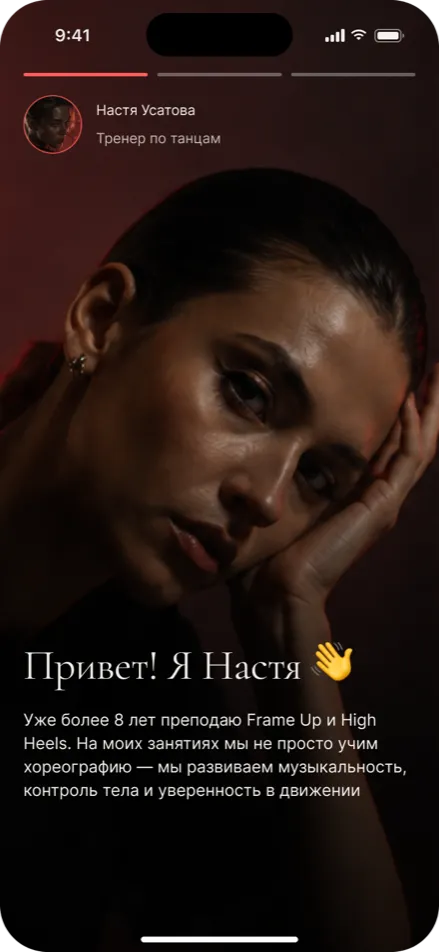
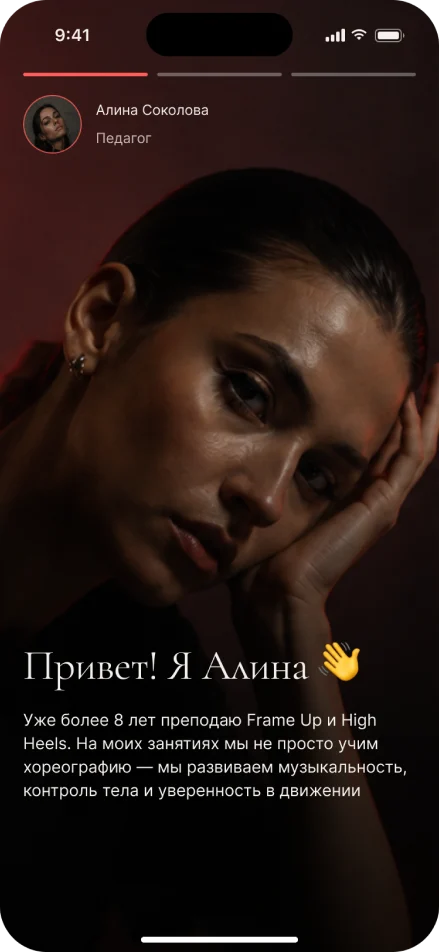
Looma: без «главной метрики» и A/B-теста — гипотезы с «Как проверю» на 5 людях; «Истории» педагога Алины, запрос на связь Насте

diff --git a/looma.html b/looma.html
@@ -4,7 +4,7 @@
 <meta charset="utf-8">
 <meta name="viewport" content="width=device-width,initial-scale=1,viewport-fit=cover">
 <title>Looma — продуктовый кейс Екатерины Богдановой</title>
-<meta name="description" content="Looma — приложение, где танцоры находят занятия, события и друг друга. Концепт-проект, соло, 2 месяца: исследование, гипотезы и метрики, скоуп MVP, метафора красной нити, онбординг, юзабилити-тест с 5 педагогами">
+<meta name="description" content="Looma — приложение, где танцоры находят занятия, события и друг друга. Концепт-проект, соло, 2 месяца: исследование, гипотезы, скоуп MVP, метафора красной нити, онбординг, юзабилити-тест с 5 педагогами">
 <meta name="author" content="Екатерина Богданова">
 <link rel="canonical" href="https://ekateribogdana.github.io/looma.html">
 <meta property="og:type" content="article">
@@ -19,7 +19,7 @@
 <link rel="preconnect" href="https://fonts.gstatic.com" crossorigin>
 <link href="https://fonts.googleapis.com/css2?family=Cormorant+Garamond:ital,wght@0,400;0,500;0,600;1,400;1,500&family=Cormorant+Infant:wght@300;400&family=Inter:wght@400;500;600&family=PT+Mono&display=swap" rel="stylesheet">
 <script type="application/ld+json">
-{"@context":"https://schema.org","@type":"CreativeWork","name":"Looma — приложение для танцевального сообщества","dateCreated":"2026","creator":{"@type":"Person","@id":"https://ekateribogdana.github.io/#person","name":"Екатерина Богданова","url":"https://ekateribogdana.github.io/"},"isPartOf":{"@id":"https://ekateribogdana.github.io/"},"inLanguage":"ru","genre":"Продуктовый UX/UI-кейс","keywords":"продуктовый дизайн, UX/UI, мобильное приложение, гипотезы и метрики, North Star, MVP, онбординг, юзабилити-тестирование, дизайн-система, Figma","description":"Концепт-проект, соло, 2 месяца. Исследование, гипотезы и метрики, скоуп MVP, метафора и айдентика, онбординг, юзабилити-тест с 5 педагогами.","url":"https://ekateribogdana.github.io/looma.html"}
+{"@context":"https://schema.org","@type":"CreativeWork","name":"Looma — приложение для танцевального сообщества","dateCreated":"2026","creator":{"@type":"Person","@id":"https://ekateribogdana.github.io/#person","name":"Екатерина Богданова","url":"https://ekateribogdana.github.io/"},"isPartOf":{"@id":"https://ekateribogdana.github.io/"},"inLanguage":"ru","genre":"Продуктовый UX/UI-кейс","keywords":"продуктовый дизайн, UX/UI, мобильное приложение, гипотезы, MVP, онбординг, юзабилити-тестирование, дизайн-система, Figma","description":"Концепт-проект, соло, 2 месяца. Исследование, гипотезы, скоуп MVP, метафора и айдентика, онбординг, юзабилити-тест с 5 педагогами.","url":"https://ekateribogdana.github.io/looma.html"}
 </script>
 <style>
 /* Looma: чёрный фон, красная нить, Cormorant Garamond + Inter — как в презентации кейса */
@@ -500,7 +500,7 @@ main .final.s28{margin-top:0}
 }
 @media (max-width:700px){
   .s07 .shead+.h7-main,.s07 .shead+.h7-scope{margin-top:56px}
-  .s07 .h7-hyps{margin-top:20px;gap:16px}
+  .s07 .h7-hyps{margin-top:56px;gap:16px}
   .s07 .h7-main,.s07 .h7-card{padding:28px 24px;border-radius:28px}
   .s07 .h7-mt{font-size:36px}
   .s07 .h7-card{gap:16px}
@@ -1062,7 +1062,6 @@ main .final.s28{margin-top:0}
       <div class="fact rv"><div class="hd"><span class="n">03</span><span class="cap">Решение</span></div><p>Персональная лента занятий, событий и людей, кабинет педагога и «Ваша нить» — история общих встреч</p></div>
       <div class="fact rv"><div class="hd"><span class="n">04</span><span class="cap">Результат</span></div><p>Все 5 педагогов опубликовали занятие в прототипе сами — за 4 шага вместо 9. Поле с лимитом мест после теста сделала заметнее</p></div>
     </div>
-    <div class="north rv"><span class="eyebrow">Главная метрика</span><b>Записи на занятия и события в неделю</b></div>
   </section>
 
   <section class="sec s04" id="audience" aria-labelledby="aud-h">
@@ -1134,33 +1133,29 @@ main .final.s28{margin-top:0}
   <header class="shead rv">
     <div class="meta"><span class="idx">О проекте и исследование</span><span class="lbl">Гипотезы</span></div>
     <div class="rule" aria-hidden="true"></div>
-    <div class="trow"><h2 id="hyp-h">Гипотезы и метрики</h2><p class="desc">Одна гипотеза выросла из исследования, две — мои предположения, которые ещё нужно проверить. У каждой есть метрика</p></div>
+    <div class="trow"><h2 id="hyp-h">Гипотезы и как их проверить</h2><p class="desc">Одна гипотеза выросла из исследования, две — мои предположения, которые ещё нужно проверить. Для каждой — простой способ проверки на 5 людях</p></div>
   </header>
-  <div class="h7-main rv">
-    <div class="h7-mk"><p class="h7-ov h7-red">Главная метрика</p><p class="h7-mt">Записи на занятия и события в неделю</p></div>
-    <p class="h7-mx">Человек нашёл занятие и записался — ради этого всё и затевалось. Связи растут уже из этих встреч</p>
-  </div>
   <div class="h7-hyps">
     <article class="h7-card rv">
       <span class="h7-num" aria-hidden="true">1</span>
       <h3>Ценность до регистрации</h3>
       <p class="h7-tx">Если сначала показать подборку, а регистрацию дать последней, больше новичков дойдут до первой записи</p>
       <p class="h7-ov">Предположение · не проверено</p>
-      <div class="h7-m"><p class="h7-ov h7-red">Метрика</p><p>Доля дошедших от старта онбординга до первой записи</p></div>
+      <div class="h7-m"><p class="h7-ov h7-red">Как проверю</p><p>Спрошу 5 танцоров, нашли ли они занятие в Looma быстрее, чем в чатах, и дошли ли до записи</p></div>
     </article>
     <article class="h7-card rv">
       <span class="h7-num" aria-hidden="true">2</span>
       <h3>Расписание в Looma</h3>
       <p class="h7-tx">Если опубликовать занятие проще, чем вести чаты, педагоги начнут вести расписание в Looma</p>
       <p class="h7-ov">Из исследования</p>
-      <div class="h7-m"><p class="h7-ov h7-red">Метрика</p><p>Доля педагогов, опубликовавших первое занятие в первую неделю</p></div>
+      <div class="h7-m"><p class="h7-ov h7-red">Как проверю</p><p>Попрошу 5 педагогов неделю вести расписание только в Looma и спрошу, вернулись бы они к чатам</p></div>
     </article>
     <article class="h7-card rv">
       <span class="h7-num" aria-hidden="true">3</span>
       <h3>Связь удерживает</h3>
       <p class="h7-tx">Если после общей встречи предложить связь, люди будут возвращаться в приложение</p>
       <p class="h7-ov">Из моего опыта · не проверено</p>
-      <div class="h7-m"><p class="h7-ov h7-red">Метрика</p><p>Доля принятых запросов на связь и доля вернувшихся через 30 дней</p></div>
+      <div class="h7-m"><p class="h7-ov h7-red">Как проверю</p><p>После общего занятия спрошу 5 танцоров, отправили бы они запрос на связь и открыли бы приложение снова</p></div>
     </article>
   </div>
 
@@ -1220,12 +1215,12 @@ main .final.s28{margin-top:0}
     </li>
     <li class="s08-row rv">
       <span class="s08-n" aria-hidden="true">3</span>
-      <h3>Stories вместо анкеты</h3>
+      <h3>Истории вместо анкеты</h3>
       <div class="s08-txt">
-        <p>Педагог рассказывает о себе в коротких видео. Характер и энергию танцора видно ещё до первого занятия</p>
+        <p>Педагог рассказывает о себе в коротких видео. Характер и энергию педагога видно ещё до первого занятия</p>
         <p class="s08-price"><span>Цена:</span> педагогу нужно снять видео, порог входа для него выше</p>
       </div>
-      <div class="s08-shot"><img src="assets/case/fig/08-screen3.webp" width="440" height="952" style="--y:-113px" loading="lazy" alt="Stories педагога с коротким рассказом о себе"></div>
+      <div class="s08-shot"><img src="assets/case/fig/08-screen3.webp" width="440" height="952" style="--y:-113px" loading="lazy" alt="История педагога Алины Соколовой с коротким рассказом о себе"></div>
     </li>
     <li class="s08-row rv">
       <span class="s08-n" aria-hidden="true">4</span>
@@ -1504,9 +1499,9 @@ main .final.s28{margin-top:0}
       <div class="col rv">
         <h3 class="cap">Что дальше</h3>
         <ol>
-          <li>A/B-тест: подборка до регистрации против регистрации сразу. Метрика — доля дошедших до первой записи</li>
-          <li>Тест показал, что публиковать занятие проще. Начнут ли педагоги вести расписание в Looma, покажет доля опубликовавших первое занятие в первую неделю после запуска</li>
-          <li>Протестировать путь танцора — поиск, запись и связь — и следить за долей принятых запросов и вернувшихся через 30 дней: так проверяется гипотеза «Связь удерживает»</li>
+          <li>Проверить путь танцора на 5 людях: найти занятие, записаться и отправить запрос на связь</li>
+          <li>Тест показал, что публиковать занятие проще. Начнут ли педагоги вести расписание в Looma, проверю, попросив 5 педагогов неделю вести его только здесь</li>
+          <li>Через пару недель спросить тех же танцоров, вернулись бы они в Looma к людям с общего занятия, — так проверю гипотезу «Связь удерживает»</li>
         </ol>
       </div>
     </div>
